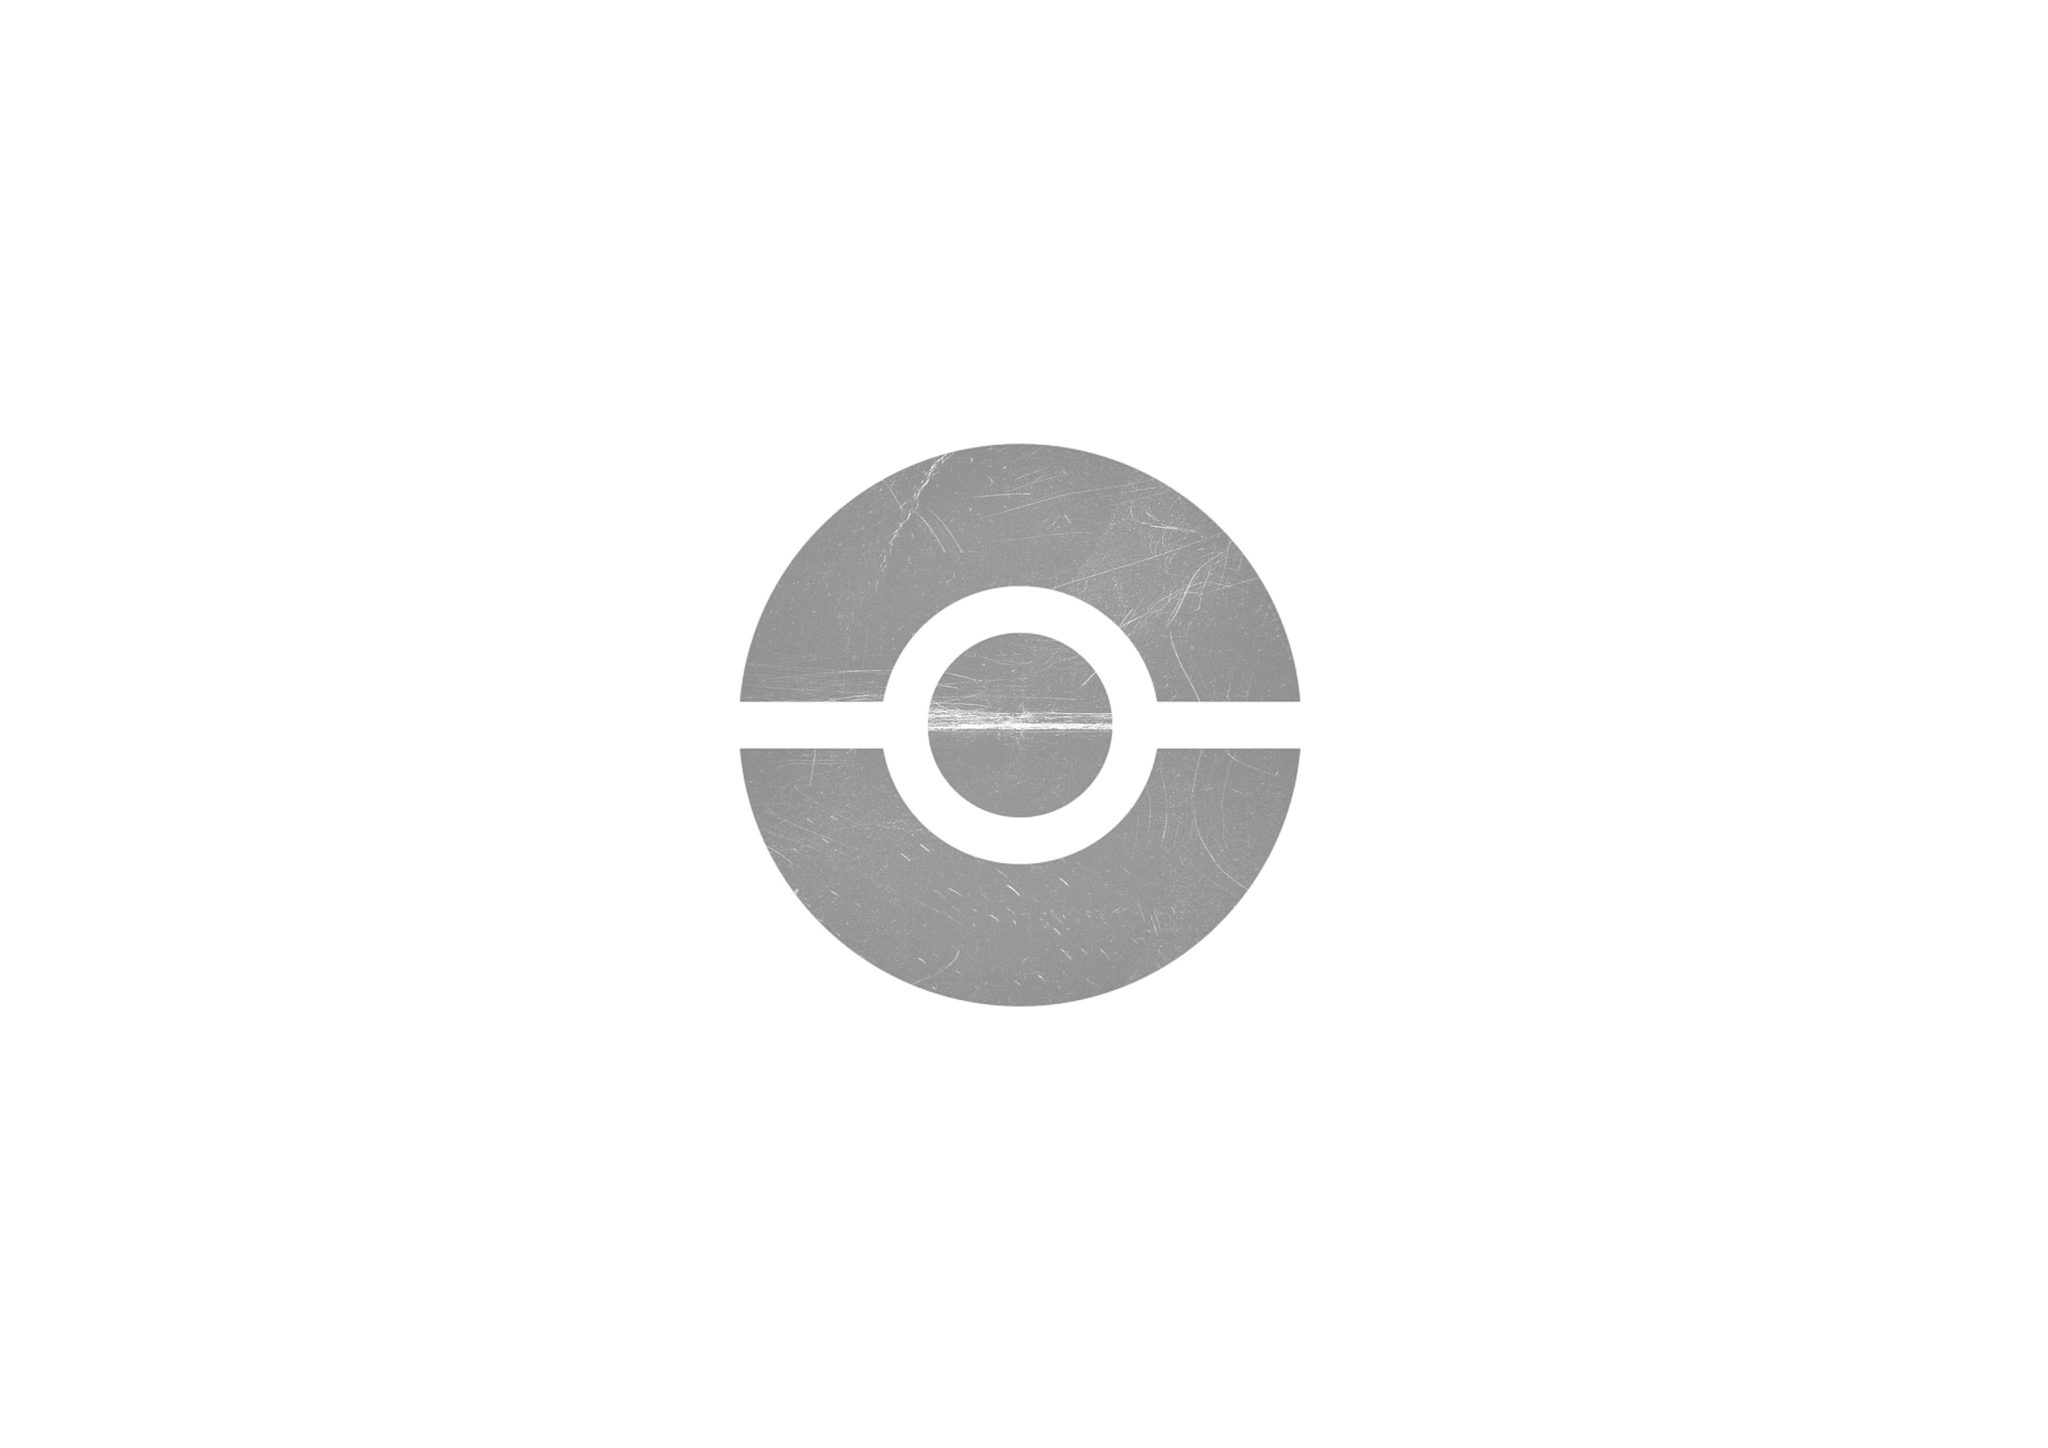
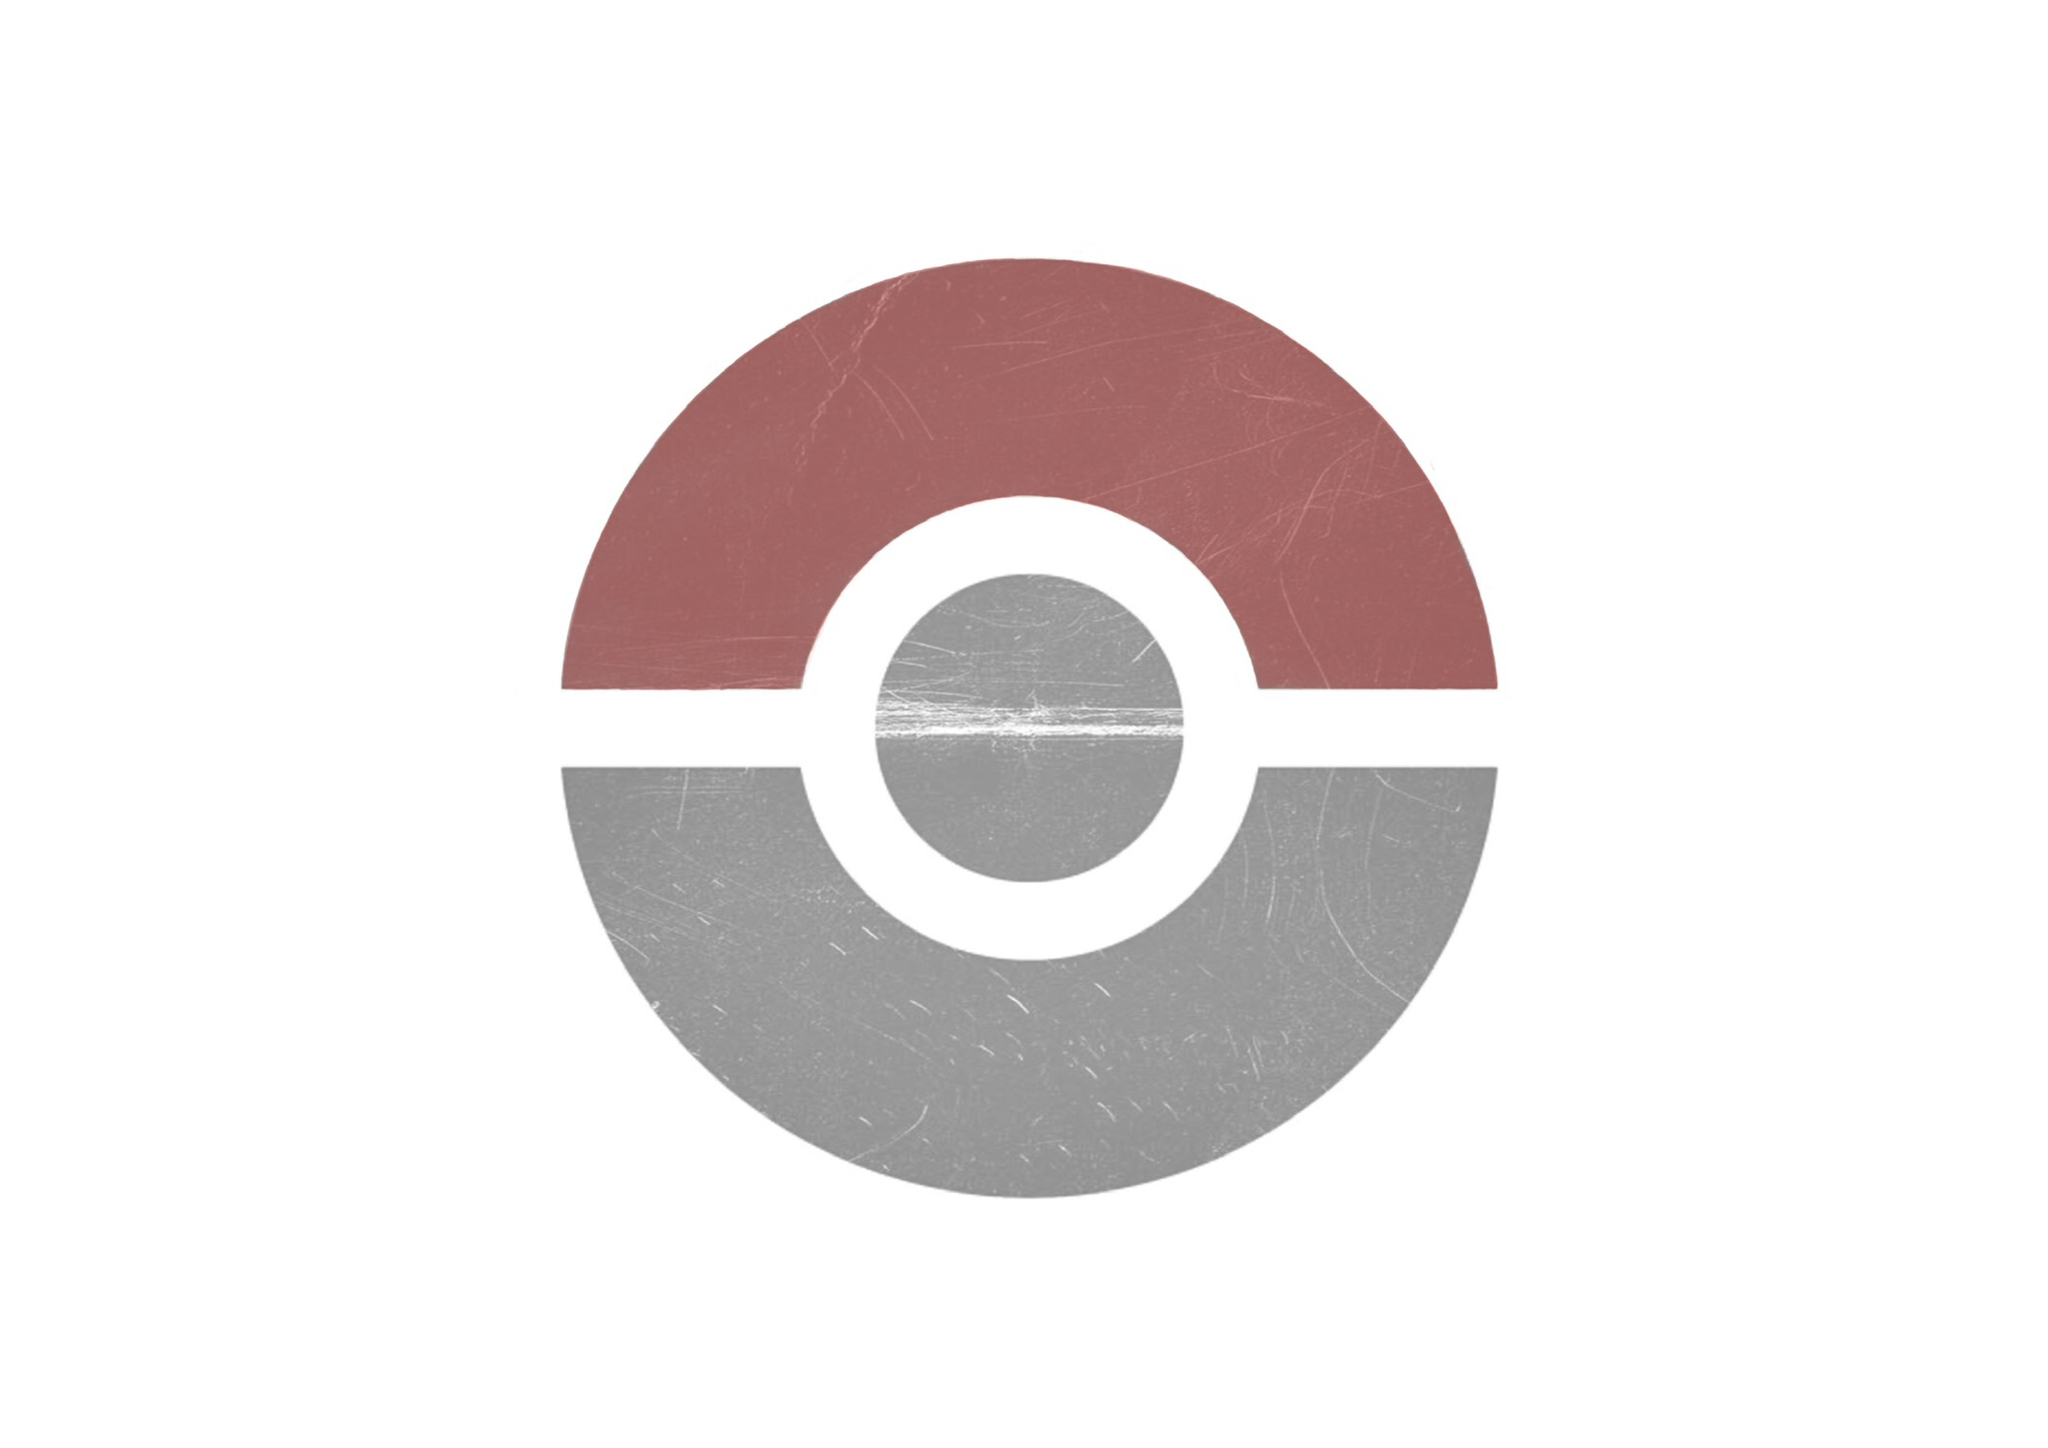
restyle pt2 + readme

Changed region(s): [[0.25, 0.1554, 0.75, 0.8391]]

diff --git a/src/app/dashboard/dashboard.component.scss b/src/app/dashboard/dashboard.component.scss
@@ -2,7 +2,7 @@
   nav {
     display: flex;
     align-items: center;
-    background: linear-gradient(to top, #ff0000, #f55252);
+    background: linear-gradient(to bottom ,#c24242, #b84040);
     height: 60px;
     border-radius: 10px;
 

diff --git a/src/app/pokemon-list/pokemon-list.component.scss b/src/app/pokemon-list/pokemon-list.component.scss
@@ -20,7 +20,7 @@
   border-radius: 10px;
   background-color: #f1f1f1;
   box-shadow: 0px 0px 10px #ccc;
-  opacity: 0.85;
+  opacity: 0.9;
 }
 .card-wrapper{
   height: 100%;

diff --git a/README.md b/README.md
@@ -1,6 +1,12 @@
 # PokeDex
 
-This project was generated with [Angular CLI](https://github.com/angular/angular-cli) version 10.1.7.
+This project is a Pokedex application built with Angular. It features two views:
+
+Pokemon List: This view displays a list of all Pokemon, with the ability to search for a specific Pokemon by name, or filter the list by type, height, and weight. The Pokemon are also displayed with pagination.
+
+![Pokemon List View](https://github.com/carabetta-ale/PokeDex/src/assets/pokemon-list-view.png)
+
+Sightings: This view allows users to register a Pokemon sighting and stores it in IndexDB. It also displays a list of all registered sightings.
 
 ## Development server
 
@@ -14,14 +20,11 @@ Run `ng generate component component-name` to generate a new component. You can 
 
 Run `ng build` to build the project. The build artifacts will be stored in the `dist/` directory. Use the `--prod` flag for a production build.
 
-## Running unit tests
-
-Run `ng test` to execute the unit tests via [Karma](https://karma-runner.github.io).
-
-## Running end-to-end tests
-
-Run `ng e2e` to execute the end-to-end tests via [Protractor](http://www.protractortest.org/).
-
 ## Further help
 
 To get more help on the Angular CLI use `ng help` or go check out the [Angular CLI README](https://github.com/angular/angular-cli/blob/master/README.md).
+
+## Licence
+
+License
+This project is licensed under the MIT License
